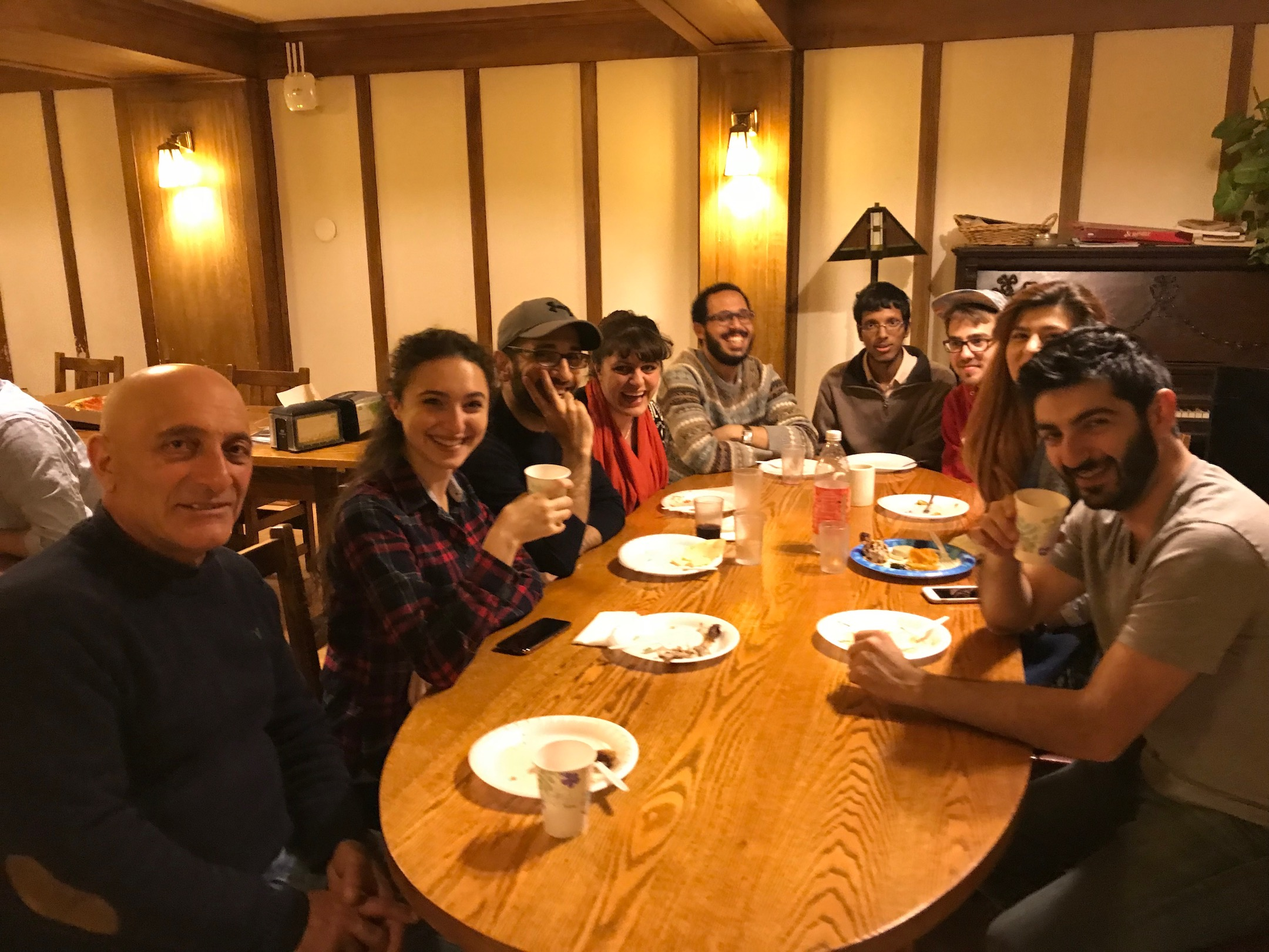
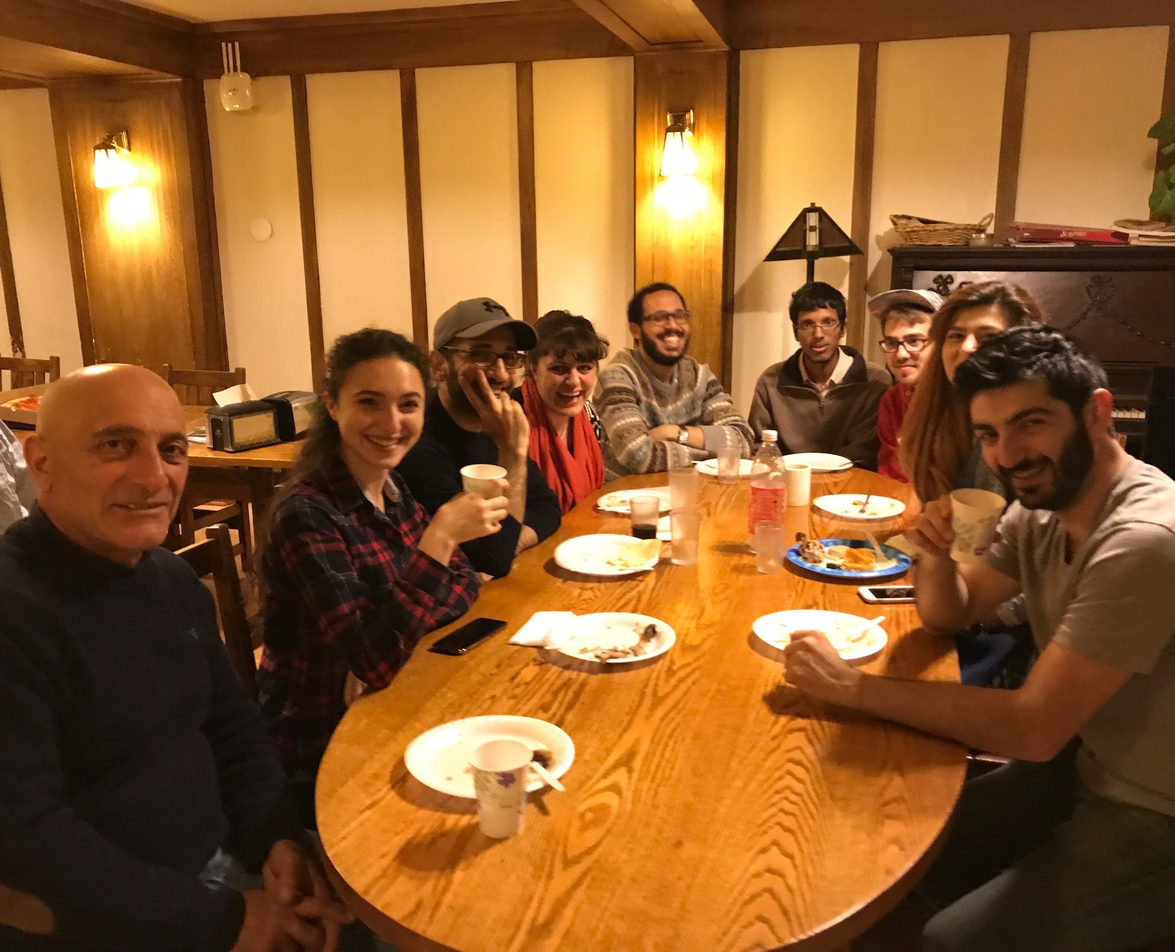
scaled images to squares, made titles more visible

diff --git a/styles/all.css b/styles/all.css
@@ -1,14 +1,19 @@
 body {
   font-family: "Palatino";
+  margin: 0;
 }
 
 /* CSS Styling for about.php */
 
 h1 {
   color: #FB1919;
-  width: 500px;
+  width: 480px;
   margin: 30px auto 30px auto;
   text-align: center;
+}
+
+.title span {
+  font-size: 24px;
 }
 
 h2 {
@@ -16,16 +21,16 @@ h2 {
   margin-top: 50px;
 }
 
-.about {
-  /* margin: 100px 0 50px 0; */
+.background_text {
   color: #ffffff;
   font-family: cursive;
   position: absolute;
   top: 50%;
   left: 50%;
   transform: translate(-50%, -50%);
-  font-size: 3em;
+  font-size: 4em;
   text-align: center;
+  text-shadow: 2px 2px black;
 }
 
 .background {
@@ -38,7 +43,7 @@ h2 {
 .navBar li {
   display: inline-block;
   padding: 0 50px;
-  font-size: 16px;
+  font-size: 20px;
 }
 
 .navBar a {
@@ -160,17 +165,6 @@ h3 {
 }
 
 /* CSS Styling of members.php */
-
-.membersText {
-  color: #ffffff;
-  font-family: cursive;
-  position: absolute;
-  top: 50%;
-  left: 50%;
-  transform: translate(-50%, -50%);
-  font-size: 3em;
-  text-align: center;
-}
 
 .members_background {
   background-image: url("/uploads/images/members_background.jpg");

diff --git a/includes/header.php b/includes/header.php
@@ -1,5 +1,5 @@
 <header>
-  <h1 class="title">Armenian Student Organization at Cornell</h1>
+  <h1 class="title">Armenian Student Organization <span>at Cornell<span></h1>
   <nav class="navBar">
     <ul>
       <li class="home"><a href="index.php">About</a></li>
@@ -8,15 +8,15 @@
       <li class="learn_more"><a href="blog.php">Learn More</a></li>
       <li class="contact"><a href="contact.php">Contact</a></li>
       <li class="eboard"><a href="eboard.php">Eboard</a></li>
-    <?php
-    // Log Out link
-    if ( is_user_logged_in() ) {
-    // Add a logout query string parameter
-    $logout_url = htmlspecialchars( $_SERVER['PHP_SELF'] ) . '?' . http_build_query( array( 'logout' => '' ) );
+      <?php
+      // Log Out link
+      if (is_user_logged_in()) {
+        // Add a logout query string parameter
+        $logout_url = htmlspecialchars($_SERVER['PHP_SELF']) . '?' . http_build_query(array('logout' => ''));
 
-    echo '<li id="nav-last"><a href="' . $logout_url . '">Sign Out ' . htmlspecialchars($current_user['username']) . '</a></li>';
+        echo '<li id="nav-last"><a href="' . $logout_url . '">Sign Out ' . htmlspecialchars($current_user['username']) . '</a></li>';
       }
-    ?>
+      ?>
     </ul>
   </nav>
 </header>

diff --git a/members.php b/members.php
@@ -19,7 +19,7 @@ include("includes/init.php");
   <?php include("includes/header.php") ?>
 
   <div class="members_background">
-    <h2 class="membersText">Members</h2>
+    <h2 class="background_text">Members</h2>
   </div>
 
   <?php if (is_user_logged_in()) {  ?>

diff --git a/index.php b/index.php
@@ -19,7 +19,7 @@ include("includes/init.php");
   <?php include("includes/header.php") ?>
 
   <div class="background">
-    <h2 class="about">About</h2>
+    <h2 class="background_text">About</h2>
   </div>
 
   <!-- <hr /> -->
